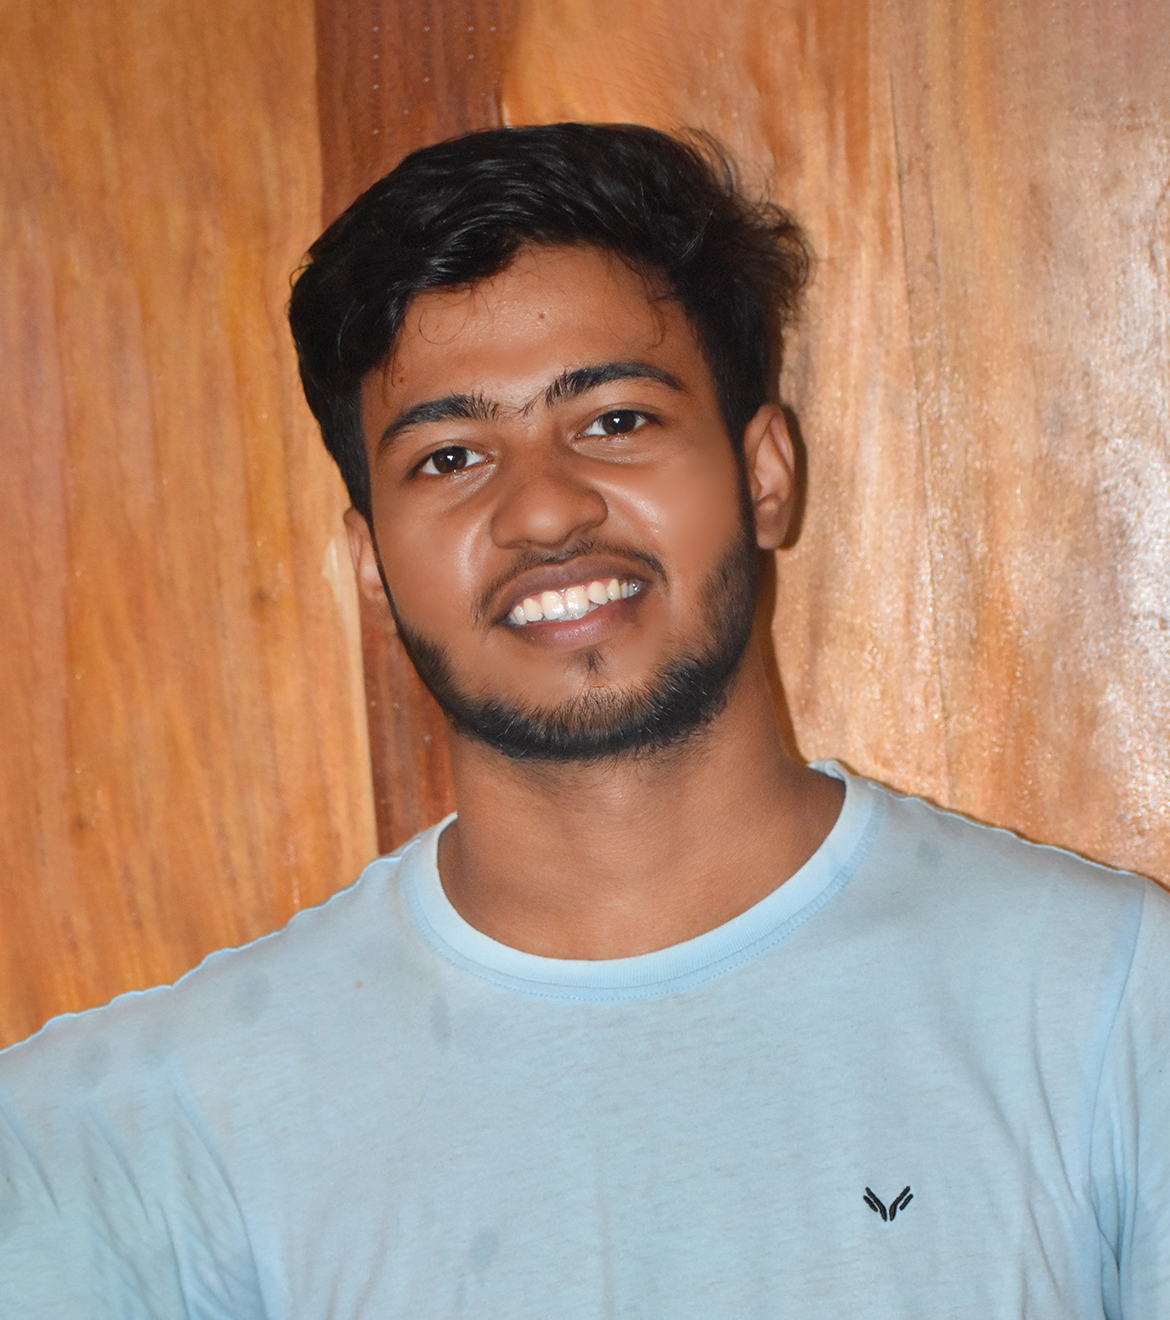
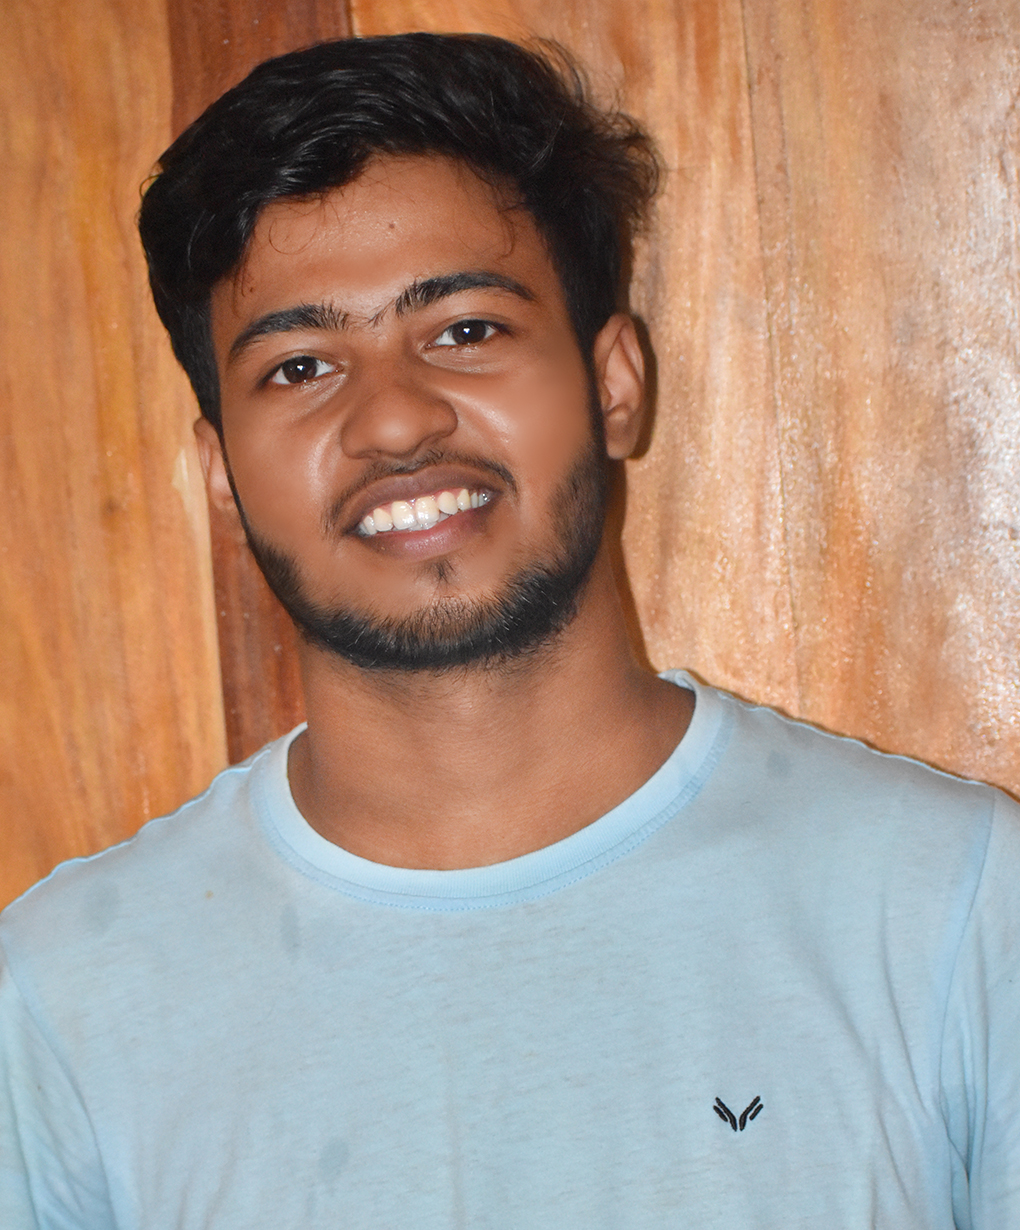
change images

diff --git a/src/home.jsx b/src/home.jsx
@@ -1,7 +1,6 @@
 import React from "react";
 import "./CSS/home.css";
-import imagePath from "./assets/profile.jpg";
-import { NavLink } from "react-router-dom";
+import imagePath from "./assets/profileImage.jpg";
 
 function Home({ isDark }) {
   let theme = {
